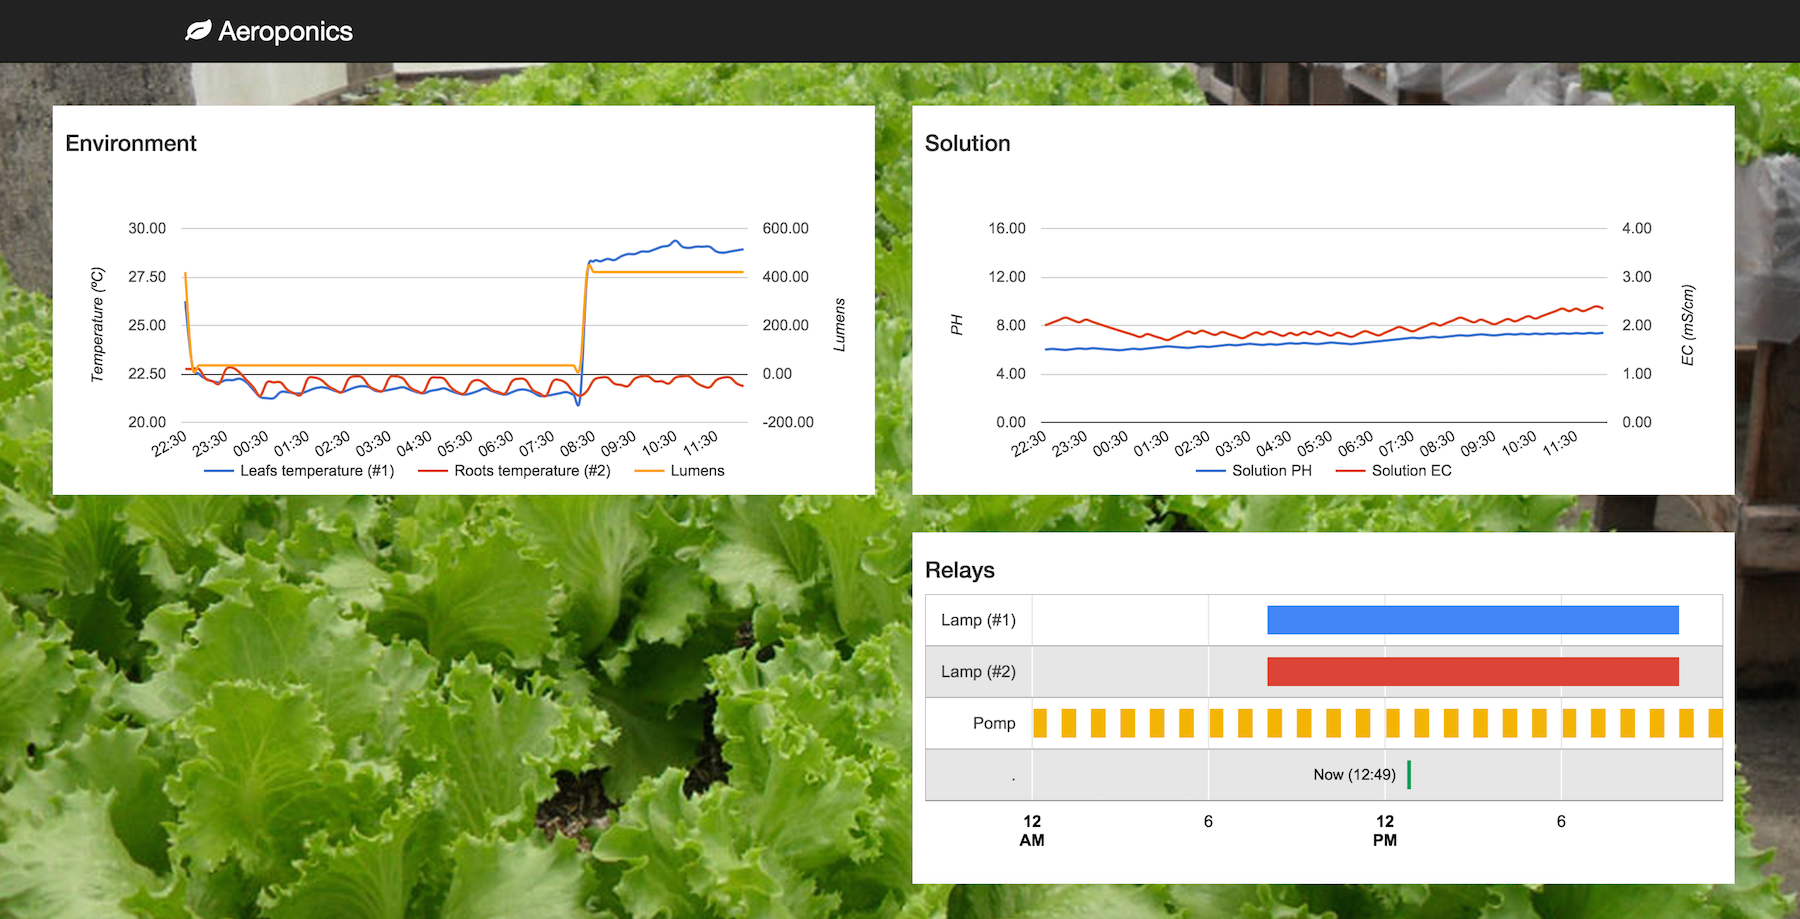
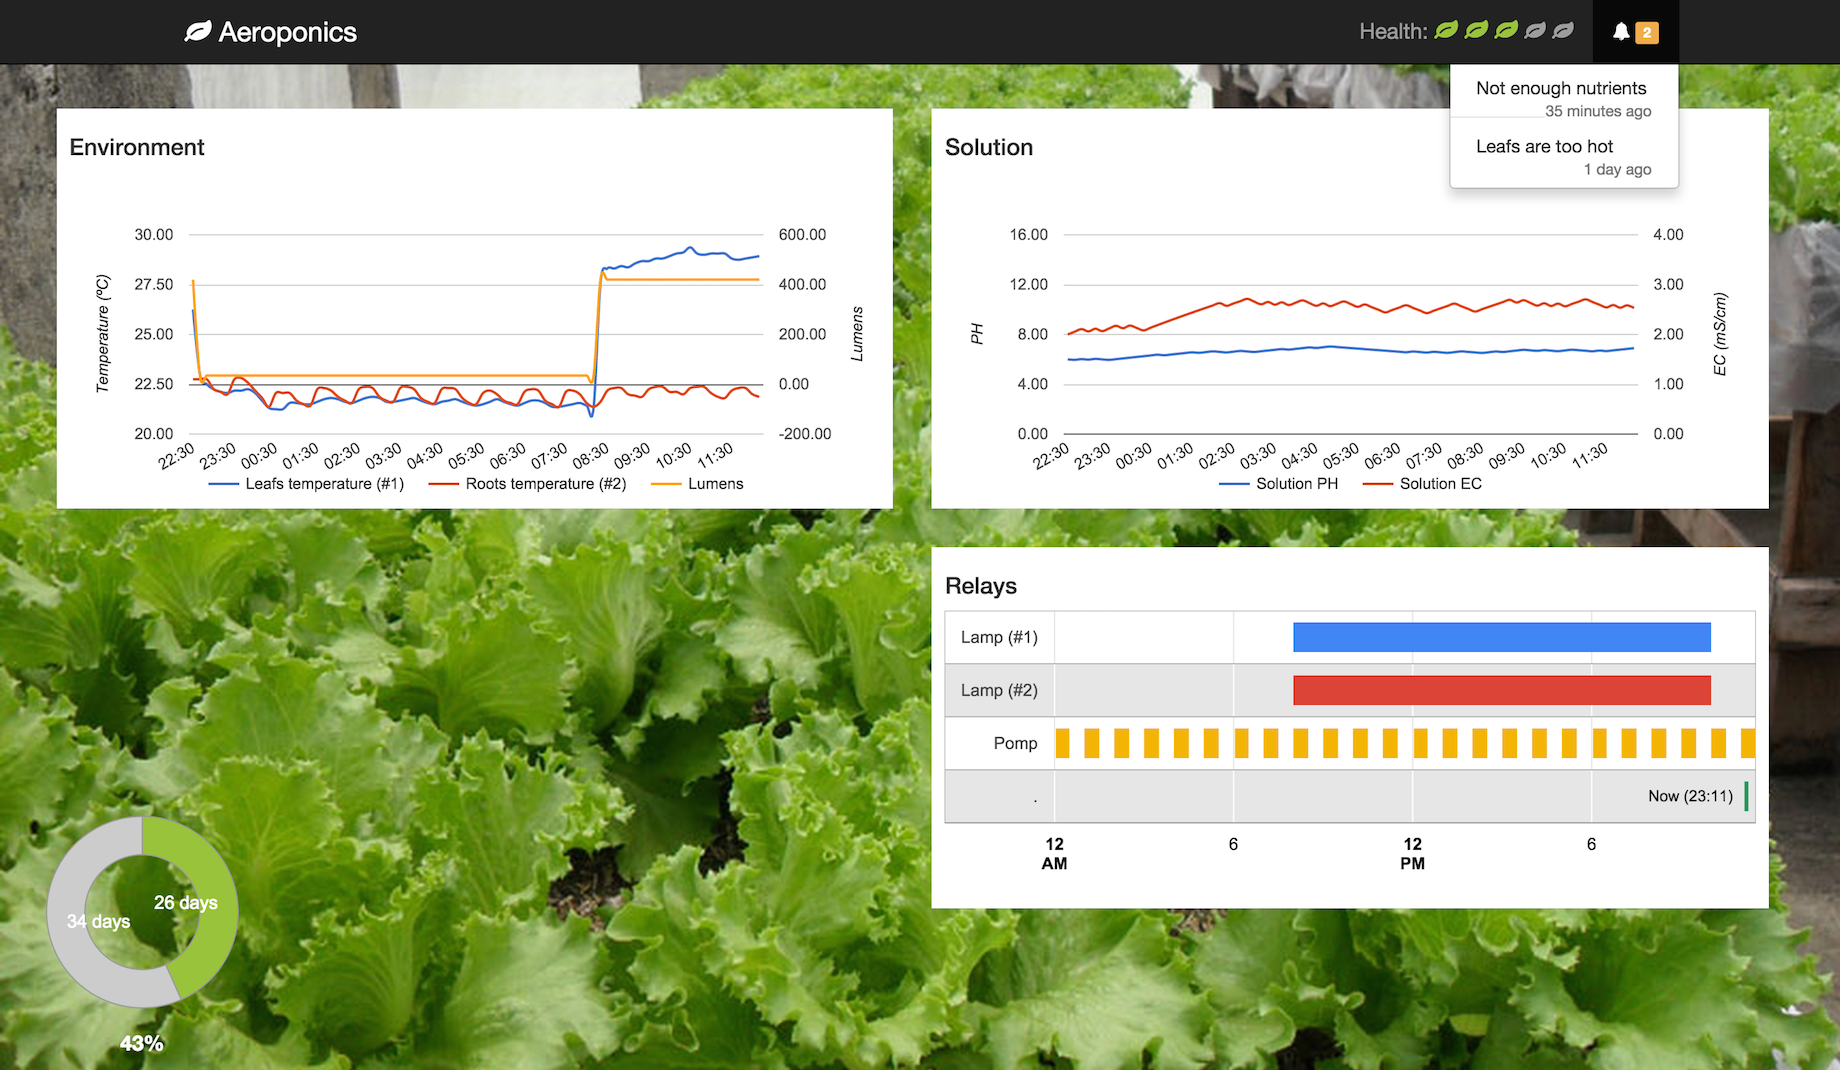
Add alerts, growth chart and health

diff --git a/index.php b/index.php
@@ -37,6 +37,11 @@
     rect[fill="#F4B400"] {
       height: 100% !important;
     }
+    
+    .fa-green {
+      color: #9AC33C;
+      font-size: 1.1em !important;
+    }
   </style>
 </head>
 
@@ -46,6 +51,35 @@
     <div class="container">
       <div class="navbar-header">
         <a class="navbar-brand" href=""><i class="fa fa-leaf"></i> Aeroponics</a>
+      </div>
+      <div id="navbar" class="navbar-collapse collapse">
+        <ul class="nav navbar-nav navbar-right">
+          <li style="font-size: 1.2em"><a href="">Health: <i class="fa fa-leaf fa-green"></i> <i class="fa fa-leaf fa-green"></i> <i class="fa fa-leaf fa-green"></i> <i class="fa fa-leaf"></i> <i class="fa fa-leaf"></i></a></li>
+          <li class="dropdown">
+            <a class="dropdown-toggle count-info" data-toggle="dropdown" href="#">
+              <i class="fa fa-bell"></i>  <span class="label label-warning">2</span>
+            </a>
+            <ul class="dropdown-menu dropdown-alerts">
+              <li>
+                <a href="#">
+                  <div>
+                    Not enough nutrients
+                    <span class="pull-right text-muted small">35 minutes ago</span>
+                  </div>
+                </a>
+              </li>
+              <li class="divider"></li>
+              <li>
+                <a href="#">
+                  <div>
+                    Leafs are too hot
+                    <span class="pull-right text-muted small">1 day ago</span>
+                  </div>
+                </a>
+              </li>
+            </ul>
+          </li>
+        </ul>
       </div>
     </div>
   </nav>
@@ -180,6 +214,40 @@
     
     chart.draw(dataTable, options);
   }
+  
+  
+  google.setOnLoadCallback(drawChart4);
+    
+     function drawChart4() {
+
+       var data = google.visualization.arrayToDataTable([
+         ['Growth', 'Days'],
+         ['26 days',     26],
+         ['34 days', 34]
+       ]);
+
+       var options = {
+         pieHole: 0.6,
+         pieSliceText: 'label',
+         pieSliceTextStyle: {
+           color: 'black',
+         },
+         legend: 'none',
+         height: 240,
+         width: 240,
+         fontSize: 14,
+         pieSliceTextStyle: { color: 'white' },
+         pieSliceBorderColor: '999',
+         backgroundColor: 'transparent',
+         slices: {
+            0: { color: '9AC33C' },
+            1: { color: 'CCCCCC' }
+          }
+       };
+
+       var chart = new google.visualization.PieChart(document.getElementById('growth'));
+       chart.draw(data, options);
+     }
   </script>
   
   <div class="container" style="margin-top: 70px; margin-left: 2%!important; margin-right: 2%!important; width: 95%">
@@ -206,6 +274,11 @@
           <div id="relays"></div>
         </div>
       </div>
+    </div>
+    
+    <div style="padding: 15px; position: absolute; bottom: -15px; left: -25px">
+      <div id="growth"></div>
+      <p style="text-align: center; margin-top: -30px; color: white; font-weight: bold; z-index: 200; font-size: 1.15em">43%</p>
     </div>
     
   </div>
